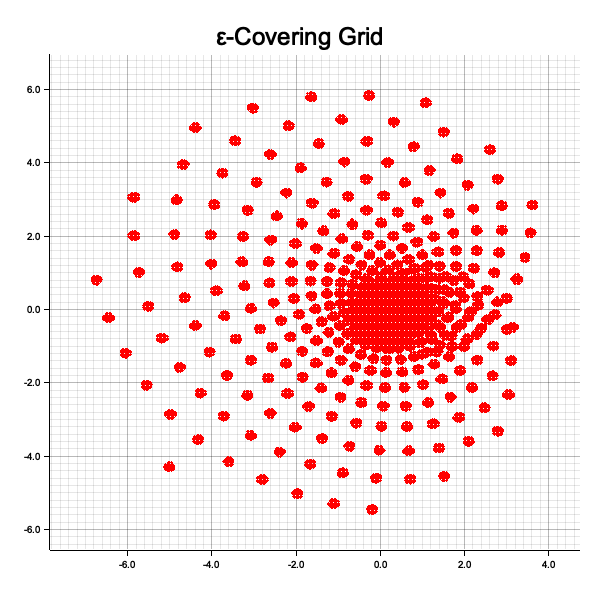
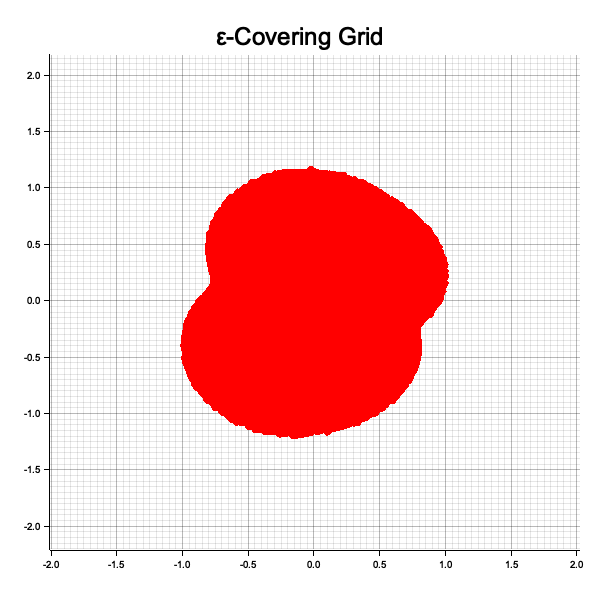
added faster grid generation

Changed region(s): [[0.03, 0.09, 0.96, 0.96], [0.96, 0.93, 0.99, 0.96], [0.06, 0.93, 0.09, 0.96]]

diff --git a/src/main.rs b/src/main.rs
@@ -7,12 +7,12 @@ use landau::plot::{plot_covering_grid, plot_set};
 use landau::holomorphic::{
     BoundingSequence, ComplexFunction, ExpansionCoefficients,
 };
-use landau::psi::{generate_all_words, psi_infinity, t_vector, m_n, m_vec};
+use landau::psi::{generate_all_words, psi_infinity, t_vector, m_vec, generate_word};
 use landau::edt::{edt_1d_squared, edt_2d_squared, print_grid, landau_l_with_edt_from_complex_set} ;
 
 use std::vec;
-
-const INF: f64 = 1e20;
+use std::time::{Duration, Instant};
+fn ms(d: Duration) -> f64 { d.as_secs_f64() * 1000.0 }
 
 
 fn evaluate_function(f : &Vec<ComplexDyadic>, delta : Dyadic, image_acc : i32) -> f64 {
@@ -42,27 +42,31 @@ fn evaluate_function(f : &Vec<ComplexDyadic>, delta : Dyadic, image_acc : i32) -
 } 
 fn main() -> Result<(), Box<dyn std::error::Error>> {
     // --- parameters (tweak if you like) ---
-    let eps_over_4 = Dyadic::new(1, -3); // ε/4 = 2^-3
-    let delta      = Dyadic::new(1, -5); // δ   = 2^-5  (δ ≤ ε/4)
-    let radius_n   = -4;                 // sample D_{1-2^{-6}}
-
+    let eps_over_4 = Dyadic::new(1, -5); // ε/4 = 2^-3
+    let delta      = Dyadic::new(1, -7); // δ   = 2^-5  (δ ≤ ε/4)
+    let radius_n   = -6;                 // sample D_{1-2^{-6}}
     // --- sequences used consistently everywhere ---
     // Use the same m_seq & t_seq for the search and the final plot.
     // (Here I keep your small hand-picked m_seq; swap for m_vec(N) if you want.)
-    let m_seq = m_vec(4) ;
+    let m_seq = vec![Dyadic::new(1, -1), Dyadic::new(1, -1), Dyadic::new(1, -2), Dyadic::new(1, -3), Dyadic::new(1, -3)];
+    // let m_seq = m_vec(15) ;
     let t_seq: Vec<usize> = t_vector(64); // dispatcher; make it long enough
 
     // --- precompute the domain sample once ---
     let domain = unit_disk_n(radius_n);
+    
 
     // --- search over words of length 6 ---
-    let mut best_word: Vec<u8> = vec![1, 1, 3, 1];
-    let mut best_l = f64::INFINITY;
+    let mut best_word: Vec<u8> = vec![];
+    let mut best_l = 100.0;
 
     // Reuse buffers across iterations
     let mut img: Vec<ComplexDyadic> = Vec::with_capacity(domain.len());
 
-    for word in generate_all_words(8) {
+    for i  in 0..1000 {
+        // let t1 = Instant::now();
+
+        let word = generate_word(30);
         // coefficients from ψ∞
         let coeffs = psi_infinity(&m_seq, &t_seq, &word);
 
@@ -72,18 +76,28 @@ fn main() -> Result<(), Box<dyn std::error::Error>> {
             ExpansionCoefficients::new(coeffs),
         );
         let f = fprime.antiderivative();
-
+        // let dt_1 = t1.elapsed() ;
+        // println!("time spent creating func: {}", ms(dt_1)) ;
         // evaluate on the domain
+        // let t2: Instant = Instant::now();
+
         img.clear();
         for &z in &domain {
             img.push(f.eval(z));
         }
-
+        // let dt_2 = t2.elapsed() ;
+        // println!("time spent evaluating: {}", ms(dt_2)) ;
         // covering grid of the image (ε/4, δ)  — ensure this matches your function’s arg order
-        let grid = create_covering_grid(&img, eps_over_4, delta);
+        // let t3: Instant = Instant::now();
 
+        let grid = create_covering_grid(&img, eps_over_4, delta);
+        // let dt_3 = t3.elapsed() ;
+        // println!("time spent creating grid: {}", ms(dt_3)) ;
         // linear-time Landau l via EDT
+        // let t4: Instant = Instant::now();
         let l_val = landau_l_with_edt_from_complex_set(&grid, delta);
+        // let dt_4 = t4.elapsed() ;
+        // println!("time spent edt: {}", ms(dt_4)) ;
         if l_val < best_l {
             best_l = l_val;
             best_word = word; // `word` is moved from the iterator; fine

diff --git a/src/covering_grids.rs b/src/covering_grids.rs
@@ -66,35 +66,50 @@ pub fn extreme_points(vec : &Vec<ComplexDyadic>) -> Option<Vec<ComplexDyadic>> {
 }
 
 pub fn create_covering_grid(set : &Vec<ComplexDyadic>, epsilon : Dyadic, delta : Dyadic) -> HashSet<ComplexDyadic> {
-    let mut grid = HashSet::new();
+    let mut out: HashSet<ComplexDyadic> = HashSet::new();
     let delta_f64 = delta.to_f64();
-    let epsilon_f64 = epsilon.to_f64();
-    if set.is_empty() {
-        return grid;
-    }
+    if set.is_empty() { return out; }
 
-    let grid_radius = (epsilon.to_f64() / delta.to_f64()).ceil() as i128;
+    let delta_f = delta.to_f64();
+    let eps_f   = epsilon.to_f64();
+    let inv_d   = 1.0 / delta_f;
+    
+    let r_float = eps_f * inv_d;           // ε / δ
+    let r       = r_float.ceil() as i32;   // search square radius
+    let r2      = r_float * r_float; 
+    let mut lattice: HashSet<(i32, i32)> = HashSet::with_capacity(set.len() * ((2*r + 1) as usize));
+
     for a in set {
-        let real_a = a.re.to_f64();
-        let imag_a = a.im.to_f64();
-        let center_real = (real_a / delta.to_f64()).round() as i128;
-        let center_imag = (imag_a / delta.to_f64()).round() as i128;
-        let center = ComplexDyadic::new(Dyadic::new(center_real, 0) * delta, Dyadic::new(center_imag, 0) * delta) ;
-        for dr in -grid_radius..=grid_radius {
-            for di in -grid_radius..=grid_radius {
-                let diff = ComplexDyadic::new(Dyadic::new(dr, 0) * delta, Dyadic::new(di, 0) * delta) ;
+        let ax = a.re.to_f64();
+        let ay = a.im.to_f64();
+        
+        let cx_f = ax * inv_d;
+        let cy_f = ay * inv_d;
+        let cx   = cx_f.round() as i32;
+        let cy   = cy_f.round() as i32;
 
-                let candidate = center + diff ;
+        for di in -r..=r {
+            let dx = (cx + di) as f64 - cx_f;    // lattice delta in x (units of lattice steps)
+            let dx2 = dx * dx;
+            // quick reject if already beyond radius horizontally
+            if dx2 > r2 { continue; }
 
-                let sub = *a - candidate.clone() ;
-                let dist2 = sub.abs() ;
-                if dist2 <= epsilon_f64 {
-                    grid.insert(candidate);
+            for dj in -r..=r {
+                let dy = (cy + dj) as f64 - cy_f;
+                if dx2 + dy*dy <= r2 + 1e-12 {   // small epsilon to be robust against FP ties
+                    lattice.insert((cx + di, cy + dj));
                 }
-            }
-        }
+            }}
+    } 
+    out.reserve(lattice.len());
+    for (i, j) in lattice {
+        // i*δ, j*δ  (use your dyadic ops; this happens once per kept cell)
+        let re = Dyadic::new(i as i128, 0) * delta;
+        let im = Dyadic::new(j as i128, 0) * delta;
+        out.insert(ComplexDyadic::new(re, im));
     }
-    grid
+
+    out
 }
 
 pub fn grid_complement(grid : &HashSet<ComplexDyadic>, delta : Dyadic) -> HashSet<ComplexDyadic> {

diff --git a/src/edt.rs b/src/edt.rs
@@ -48,11 +48,12 @@ pub fn edt_1d_squared(f: &[f64]) -> Vec<f64> {
     g
 }
 
+
 pub fn edt_2d_squared(img: &mut [f64], width: usize, height: usize) {
     // pass A: columns
     {
-        let mut col = vec![0f64; height];
-        let mut out = vec![0f64; height];
+        let mut col = vec![0.0; height];
+        let mut out = vec![0.0; height];
         for x in 0..width {
             for y in 0..height { col[y] = img[y * width + x]; }
             let tmp = edt_1d_squared(&col);
@@ -60,17 +61,17 @@ pub fn edt_2d_squared(img: &mut [f64], width: usize, height: usize) {
             for y in 0..height { img[y * width + x] = out[y]; }
         }
     }
-    // pass B: rows
-    // {
-    //     let mut row = vec![0f64; width];
-    //     let mut out = vec![0f64; width];
-    //     for y in 0..height {
-    //         for x in 0..width { row[x] = img[y * width + x]; }
-    //         let tmp = edt_1d_squared(&row);
-    //         out.copy_from_slice(&tmp);
-    //         for x in 0..width { img[y * width + x] = out[x]; }
-    //     }
-    // }
+    // pass B: rows  <-- UNCOMMENT THIS WHOLE BLOCK
+    {
+        let mut row = vec![0.0; width];
+        let mut out = vec![0.0; width];
+        for y in 0..height {
+            for x in 0..width { row[x] = img[y * width + x]; }
+            let tmp = edt_1d_squared(&row);
+            out.copy_from_slice(&tmp);
+            for x in 0..width { img[y * width + x] = out[x]; }
+        }
+    }
 }
 
 pub fn print_grid(label: &str, img: &[f64], w: usize, h: usize, sqrt: bool) {
